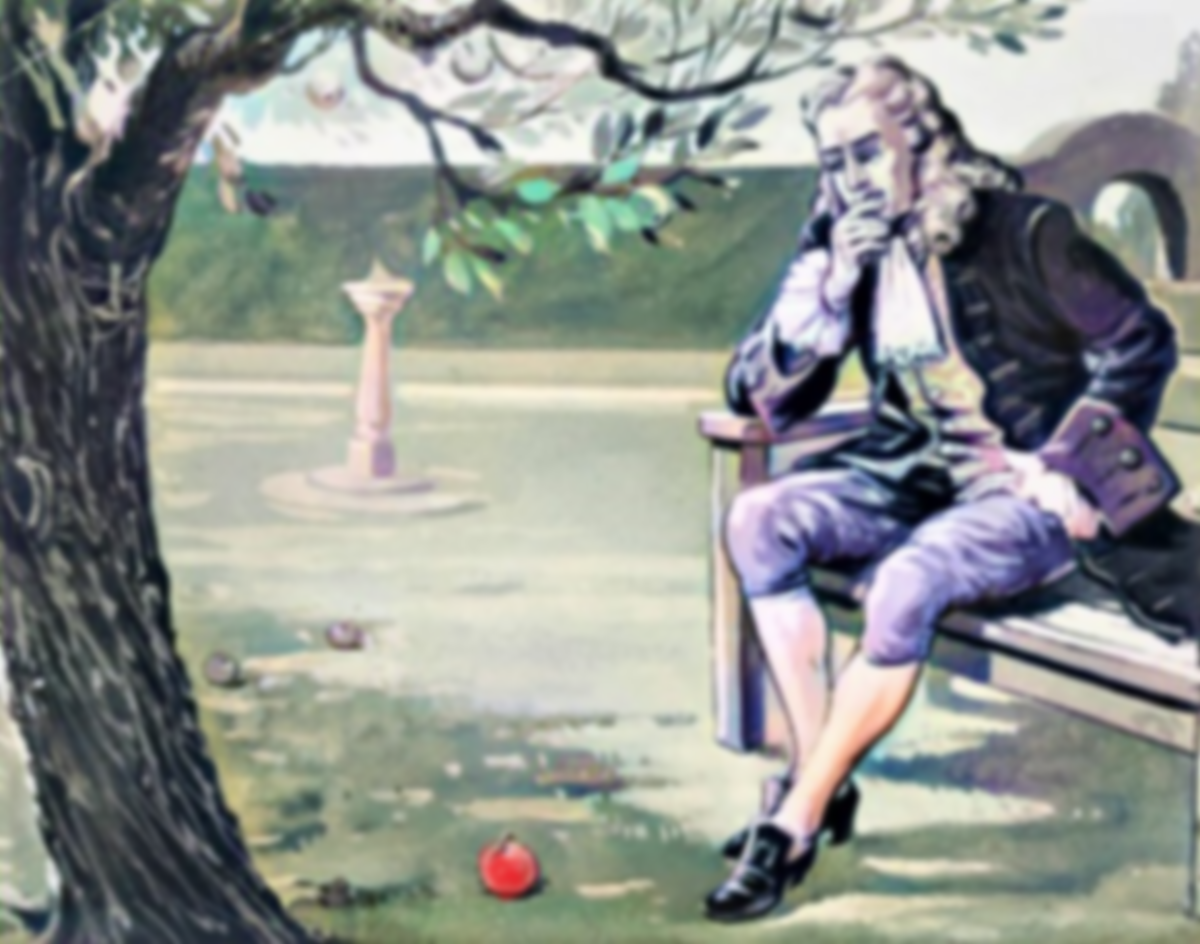
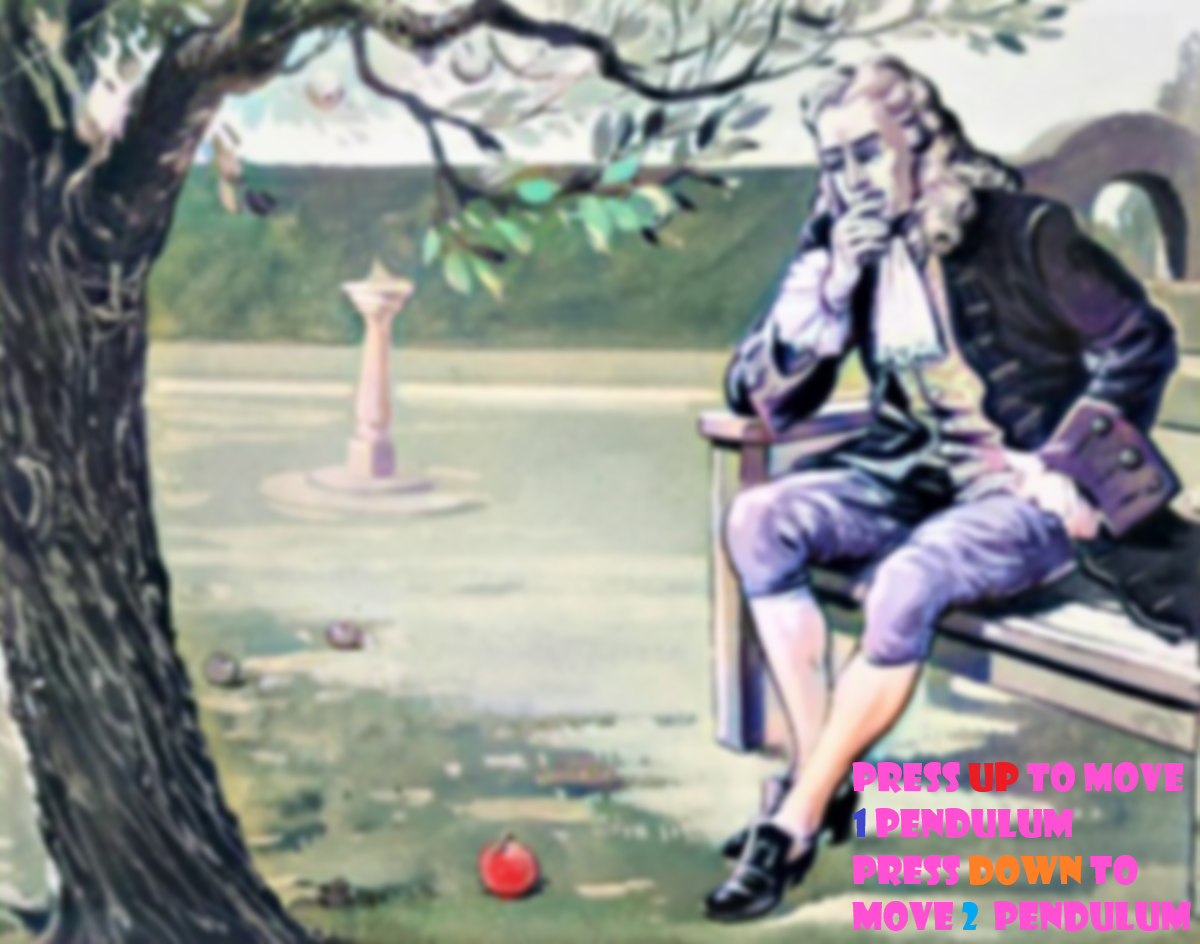
Newton's Cradle

Changed region(s): [[0.7092, 0.7987, 1.0, 1.0]]

diff --git a/sketch.js b/sketch.js
@@ -20,7 +20,7 @@ function setup() {
     engine = Engine.create();
     world = engine.world;
 
-    ground = new fixed(600, 590, 1200, 50, groundImg);
+    ground = new fixed(420, 590, 840, 50, groundImg);
     roof = new fixed(400, 50, 600, 100, roofImg);
     bob1 = new Pendulum(200, 406, 50);
     rope1 = new rope(bob1.body, roof.body, {
@@ -66,6 +66,9 @@ function draw() {
     bob4.display();
     rope5.display();
     bob5.display();
+    fill(random(50,250),0,random(50,250))
+    textSize(48);
+    text("NEWTON'S CRADLE",200,550);
 }
 
 function keyPressed() {
